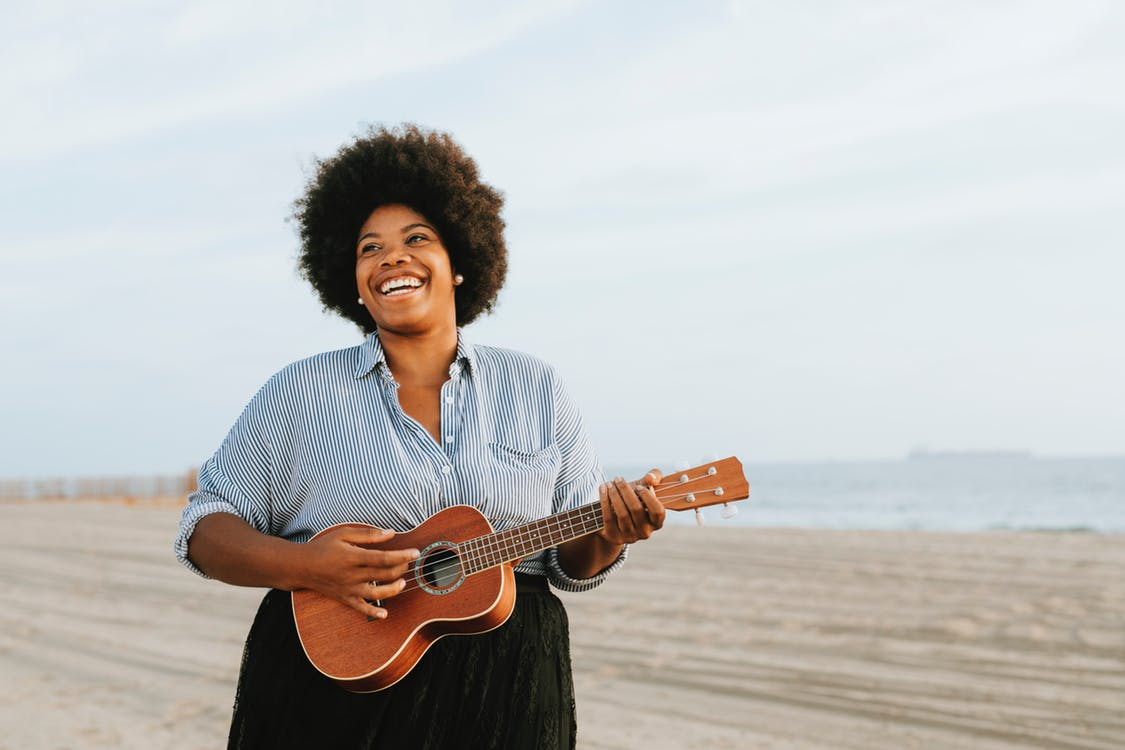
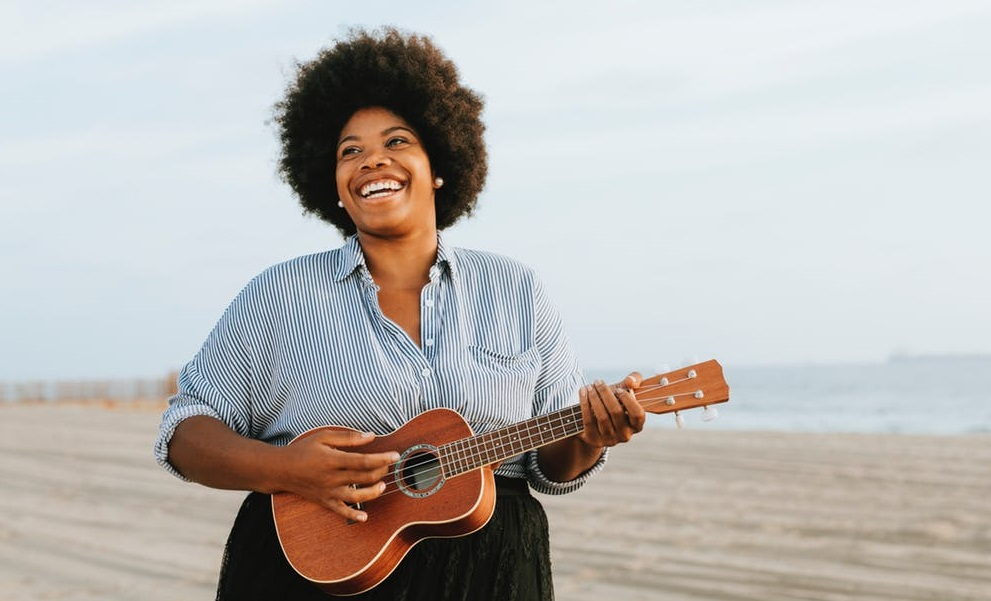
Adjusting the testimonial carousel on the About Page

diff --git a/src/views/About.vue b/src/views/About.vue
@@ -148,7 +148,7 @@
         </div>
       </div>
     </div>
-    <h3>Commonly Asked Questions</h3>
+    <h3 class="mt-5 display-4">Commonly Asked Questions</h3>
     <div class="accordion" id="accordionExample">
       <div class="card" v-for="qa in qas" :key="qa.id">
         <div class="card-header" :id="qa.heading">
@@ -174,6 +174,35 @@
         >
           <div class="card-body">
             <p>{{ qa.answer }}</p>
+          </div>
+        </div>
+      </div>
+    </div>
+    <div class="jumbotron test mt-5 mb-5">
+      <h3 class="display-4">Testimonials</h3>
+      <div
+        id="inspirationCarousel"
+        class="carousel slide"
+        data-ride="carousel"
+        data-interval="5000"
+      >
+        <div class="carousel-inner ">
+          <div
+            class="carousel-item item"
+            v-for="(test, idx) in testimonials"
+            :key="test.id"
+            :class="{ active: idx == 0 }"
+            width="auto"
+          >
+            <img
+              class="d-block w-100 img-fluid img-responsive"
+              :src="test.img"
+              :alt="test.name"
+              z-index="24"
+            />
+            <div class="carousel-content">
+              <h2 class="caro-h2">{{ test.blurb }}</h2>
+            </div>
           </div>
         </div>
       </div>
@@ -238,31 +267,31 @@ export default {
           name: "Joselle",
           specialty: "Cybersecurity",
           blurb:
-            "Musice wasn't paying the bills, so I skilled up and got an entry level developer position with a tier-1 defense contactor. Thanks Empower!",
-          img: "../src/assets/testimonials-6.jpg"
+            "Music wasn't paying the bills, so I skilled up and got an entry level developer position with a tier-1 defense contactor. Thanks Empower!",
+          img: require("../assets/testimonials-6.jpg")
         },
         {
           id: 1,
           name: "Joe",
           specialty: "Database Systems",
           blurb:
-            "UWF Empower helped me kickstart my career change. With the mobil app development skills I learned, I was able to launch my Hat Hailing service and we just reached Unicorn status!",
-          img: "../src/assets/testimonials-4.jpg"
+            "UWF Empower helped me kickstart my career change. With the mobile app development skills I learned, I was able to launch my Hat Hailing service and we just reached Unicorn status!",
+          img: require("../assets/testimonials-4.jpg")
         },
         {
           id: 2,
-          name: "Professor Gabe McMasters",
-          specialty: "Cybersecurity",
-          blurb: "Come learn with me!",
-          img: "../src/assets/testimonials-1.jpg"
+          name: "DJ Sneezey",
+          specialty: "Software engineering",
+          blurb:
+            "I wrote my on mixing software. Now, no one can copy my sound!",
+          img: require("../assets/security.jpg")
         },
         {
           id: 3,
-          name: "Professor Raul Gomez",
+          name: "@guiGuy",
           specialty: "UX Design",
-          blurb:
-            "I have over 15 years developing software in the defense industry!",
-          img: "../assets/testimonials-3.jpg"
+          blurb: "Empower gave me the skills I needed, on my schedule!",
+          img: require("../assets/testimonials-3.jpg")
         }
       ]
     };
@@ -298,6 +327,15 @@ export default {
   }
 }
 .carousel-content {
+  position: absolute;
+  font-weight: bolder;
+  top: 5%;
+  left: 5%;
+  z-index: 20;
+  color: white;
+  text-shadow: 0 3.5px 3.5px rgba(0, 0, 0, 0.6);
+}
+.carousel2-content {
   position: absolute;
   font-weight: bolder;
   top: 5%;
